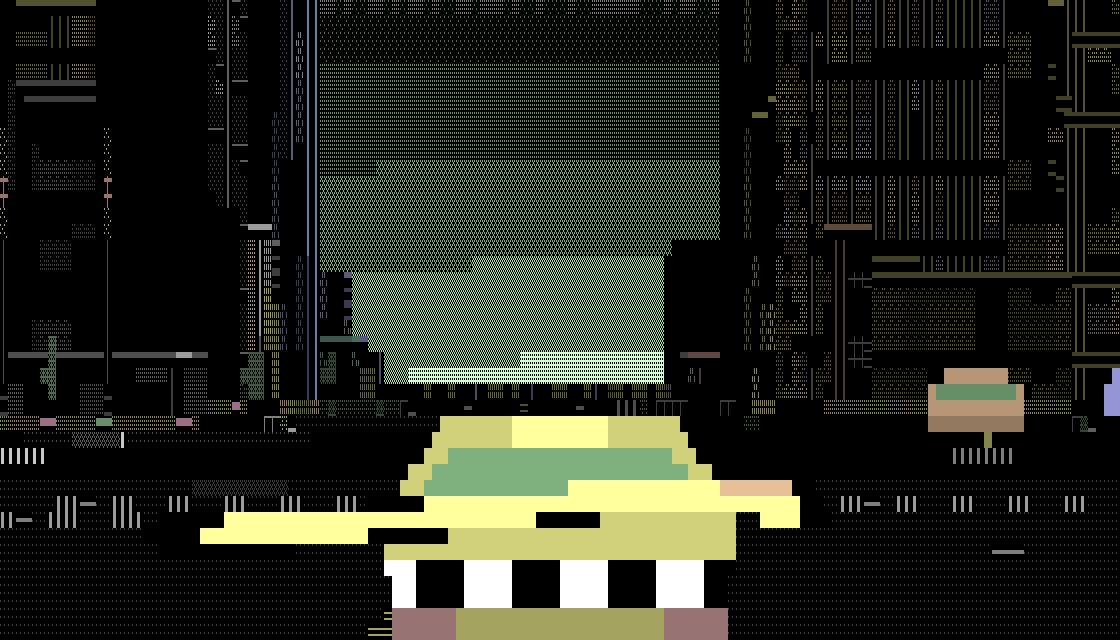
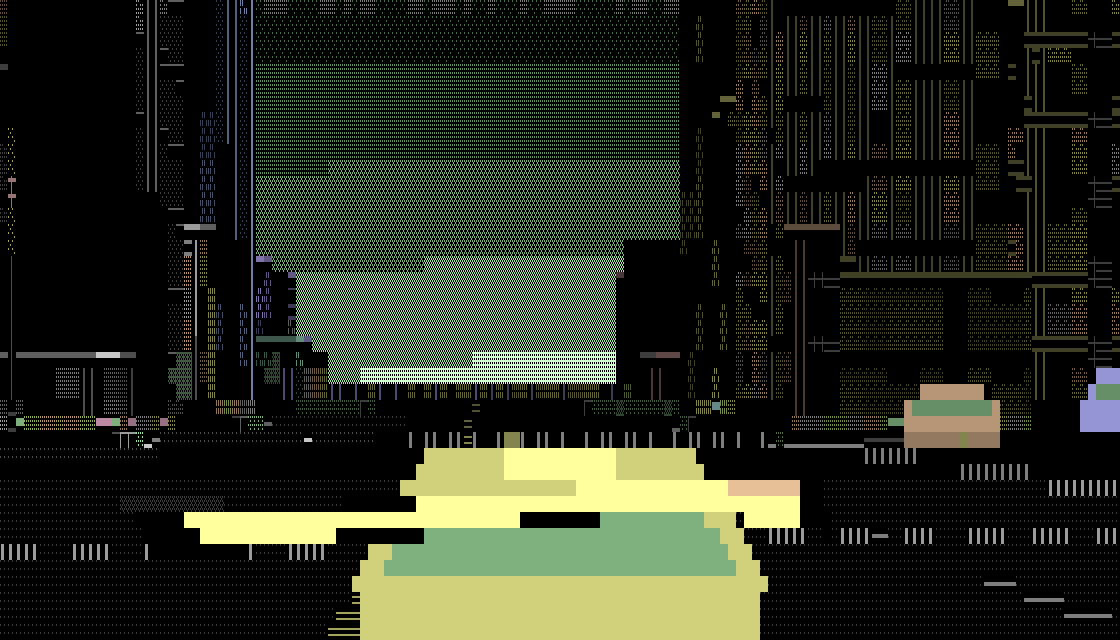
A held turn winds on, and the camera sits closer and higher
THE WHEEL HAS A MEMORY NOW

A key is down or it is not, so the wheel only ever goes to one place, and the
*time* it has been there is the only thing left to tell a flick from a
commitment.  Hold it hard over and the lock keeps winding on for the next
second, up to a quarter again as much; let it come back and it unwinds twice
as fast as it wound.  The first second is the corner you asked for, and past
that the car keeps turning in, which is how you get round something you have
misjudged.

A quarter, and not the half it started at, because of who else holds a wheel.
The autopilot's steering latch pins the lock through every junction, so at
half again it wound itself onto the pavement - 26 per cent of one city's
travelling ticks off the carriageway, against 2.  The physics does not know
who is driving and must not; what changed is the number, not who it applies
to.

The counter runs in ticks of whatever rate the game is stepping at, scaled
from the constants' own rate, for the same reason grip does: a car that winds
on twice as fast at sixty frames a second as at thirty handles differently on
a faster machine, and there is a test that says so.

THE CAMERA

One car-length back rather than one and a quarter, and eleven tenths of a
cell up rather than one.  The two fight - the car's foot lands `eye x scale /
boom` rows below the horizon, so shortening the boom pushes the car down the
screen and raising the eye pushes it down again - and what is left visible is
[…]

diff --git a/crates/ascitty-core/src/drive.rs b/crates/ascitty-core/src/drive.rs
@@ -110,6 +110,29 @@ const GRIP_HANDBRAKE: Fx = fixed::ratio(995, 1000);
 const GRIP_CURVE: u32 = 3;
 /// Peak yaw rate, in angle units per second: about 130 degrees a second.
 const TURN_RATE: i32 = 24_000;
+/// How far over the wheel has to be to count as held.
+const WIND_LOCK: Fx = fixed::ratio(3, 4);
+/// How long it has to be held there before the lock starts winding on, in
+/// ticks at [`HZ`].
+///
+/// A second.  Anything shorter and an ordinary junction - which is a second
+/// of lock at town speed - starts to tighten on its own, and a corner that
+/// tightens without being asked is a corner you cannot place.
+const WIND_AFTER: u32 = HZ as u32;
+/// And how long from there to all of it.
+const WIND_OVER: u32 = HZ as u32;
+/// How much more lock a fully wound wheel is worth.
+///
+/// A quarter again.  It is what turns a held turn into a tightening one:
+/// the first second is the corner you asked for, and past that the car keeps
+/// turning in, which is how you get round something you have misjudged.
+///
+/// It was half again, and half again is too much for anything that holds
+/// lock as a matter of course.  The autopilot does - its steering latch pins
+/// the wheel through every junction - so it wound itself onto the pavement:
+/// 26 per cent of one city's travelling ticks off the carriageway, against
+/// 2.  A quarter is a wind-on you can feel and not one that drives for you.
+const WIND_MAX: Fx = fixed::ratio(1, 4);
 /// Speed at which the car turns its hardest, in units per second - about
 /// 32 km/h.
 ///
@@ -285,6 +308,13 @@ pub struct Car {
     pub hue: u8,
     /// What it is.
     pub kind: CarKind,
+    /// Ticks the wheel has been held hard over, for the lock that winds on.
+    ///
+    /// A car park manoeuvre and a corner are the same input here - the wheel
+    /// only goes to one place - so the *time* it has been there is the only
+    /// thing left to tell them apart, and it is what a driver actually does:
+    /// turn in, and keep turning in if it is not enough.
+    pub wound: u32,
     /// Ticks of boost left: twice the engine and twice the top speed.
     ///
     /// It is on the car rather than in the controls because it outlives a
@@ -297,7 +327,7 @@ pub struct Car {
 impl Car {
     /// A car sitting still at a place, pointing somewhere.
     pub fn new(kind: CarKind, x: Fx, y: Fx, yaw: Ang, hue: u8) -> Car {
-        Car { x, y, vx: 0, vy: 0, yaw, spin: 0, damage: 0, hue, kind, boost: 0 }
+        Car { x, y, vx: 0, vy: 0, yaw, spin: 0, damage: 0, hue, kind, wound: 0, boost: 0 }
     }
 
     /// Speed, in units per second.
@@ -411,7 +441,31 @@ impl Car {
             fixed::div(TURN_REF, sp)
         };
         let dir = if vf < 0 { -ONE } else { ONE };
-        let rate = fixed::mul(fixed::mul(c.steer, auth), dir);
+
+        // Winding the lock on.  Hold the wheel hard over and the turn keeps
+        // tightening for the next second, up to half again as much lock; let
+        // it come back and that unwinds twice as fast as it wound.  It is
+        // the one input in the game with a memory, and it is what makes a
+        // held turn a *decision* rather than a state.
+        // In ticks of whatever rate this is, not of `HZ`: the constants are
+        // quoted at sixty and the counter runs at `hz`, and a car that winds
+        // on twice as fast at sixty frames a second as at thirty is a car
+        // that handles differently on a faster machine.
+        let after = WIND_AFTER * hz as u32 / HZ as u32;
+        let over = (WIND_OVER * hz as u32 / HZ as u32).max(1);
+        if fixed::abs(c.steer) > WIND_LOCK {
+            self.wound = self.wound.saturating_add(1).min(after + over);
+        } else {
+            self.wound = self.wound.saturating_sub(2);
+        }
+        let wound = fixed::div(
+            fixed::from_int(self.wound.saturating_sub(after) as i32),
+            fixed::from_int(over as i32),
+        )
+        .clamp(0, ONE);
+        let wind = ONE + fixed::mul(wound, WIND_MAX);
+
+        let rate = fixed::mul(fixed::mul(fixed::mul(c.steer, auth), dir), wind);
         let turn = ((rate as i64 * TURN_RATE as i64) >> 16) / hz as i64;
         // A low-pass filter on the yaw rate, so the wheel has weight and a
         // knock from a wall spins the car and then washes out.  It has to be
@@ -858,6 +912,45 @@ mod tests {
     ///
     /// Measured: 0.90 against 0.09 at 100 km/h.  It was 1.00 against 0.92
     /// before, which is to say it did nothing you could see.
+    /// Holding a turn tightens it.
+    ///
+    /// The first second is the corner you asked for; past that the wheel
+    /// keeps winding on.  Measured as the yaw in the second second of a held
+    /// turn against the yaw in the first, at a speed the car actually
+    /// corners at.
+    #[test]
+    fn a_held_turn_tightens() {
+        let city = open_ground();
+        let mut car = Car::new(CarKind::Taxi, fixed::from_int(8), fixed::from_int(8), 0, 7);
+        car.vx = fixed::from_int(3);
+        let hold = Controls { throttle: 0, steer: ONE, ..Default::default() };
+        let turn = |car: &mut Car, ticks: i32| {
+            let was = car.yaw;
+            for _ in 0..ticks {
+                // Hold the speed, so this is about the wheel and not about
+                // the throttle.
+                let want = fixed::from_int(3);
+                let vf = fixed::mul(car.vx, trig::cos(car.yaw)) + fixed::mul(car.vy, trig::sin(car.yaw));
+                let c = Controls { throttle: if vf < want { ONE } else { 0 }, ..hold };
+                car.step(&c, &city, HZ);
+            }
+            (car.yaw.wrapping_sub(was) as i16 as i32).abs()
+        };
+        let first = turn(&mut car, HZ);
+        let second = turn(&mut car, HZ);
+        assert!(
+            second > first * 11 / 10,
+            "the wheel did not wind on: {first} units in the first second, {second} in the next"
+        );
+
+        // And it unwinds when you straighten up.
+        let straight = Controls { throttle: 0, steer: 0, ..Default::default() };
+        for _ in 0..HZ {
+            car.step(&straight, &city, HZ);
+        }
+        assert_eq!(car.wound, 0, "the lock stayed wound on after the wheel came back");
+    }
+
     #[test]
     fn the_handbrake_makes_it_slide_more() {
         for v in [fixed::from_int(3), fixed::ratio(9, 2), VMAX] {

diff --git a/crates/ascitty-tty/src/main.rs b/crates/ascitty-tty/src/main.rs
@@ -421,10 +421,11 @@ fn chase(cam: &mut Camera, sim: &Sim, city: &City, rows: i32, head: &mut Head, h
     // doubled, so the camera sat inside the boot and the frame was a
     // yellow wall.
     //
-    // Halved since - one and a quarter car-lengths rather than two and a
-    // half.  A long boom puts the cab in the middle distance and the game in
-    // the middle of a wide shot; a short one puts you behind the car.
-    let want = fixed::mul(sim.taxi.kind.half_len(), fixed::ratio(5, 2)) + fixed::ratio(1, 4);
+    // Shortened twice since - one car-length rather than two and a half.  A
+    // long boom puts the cab in the middle distance and the game in the
+    // middle of a wide shot; a short one puts you behind the car, close
+    // enough that the road goes past rather than towards you.
+    let want = fixed::mul(sim.taxi.kind.half_len(), fixed::from_int(2)) + fixed::ratio(1, 4);
     let mut boom = want;
     while boom > fixed::ratio(1, 4) {
         let x = sim.taxi.x - fixed::mul(dx, boom);
@@ -442,19 +443,21 @@ fn chase(cam: &mut Camera, sim: &Sim, city: &City, rows: i32, head: &mut Head, h
     }
     // Head height for a car, above whatever the ground is doing here.
     //
-    // A quarter higher than it was, over a boom half as long.  Both changes
+    // Higher again, over a boom shorter again.  Both changes
     // point the same way: from further back and lower down you are a camera
     // following a car, and from nearer and higher up you are looking over
     // its roof at the road, which is the shot this game is.
     //
-    // The two do fight over one thing, and the number is a compromise
-    // between them.  The car's foot lands `eye x scale / boom` rows below
-    // the horizon, so halving the boom doubles that and raising the eye
-    // adds to it again: at six fifths of a cell the cab's whole lower half
-    // was off the bottom of a forty-row frame.  At one cell it keeps about
-    // four fifths of the car and gives the rest of the frame to the street,
-    // which is what the height was raised for.
-    cam.z = city.ground(fixed::floor(cam.x), fixed::floor(cam.y)) + ONE;
+    // The two fight over one thing, and both of these numbers are a
+    // compromise between them.  The car's foot lands `eye x scale / boom`
+    // rows below the horizon, so shortening the boom pushes the car down the
+    // screen and raising the eye pushes it down again: at six fifths of a
+    // cell over a boom of two and three quarters, the cab's whole lower half
+    // was off the bottom of a forty-row frame.  What is left visible is the
+    // roof, the glass and the chequer band - the parts that say it is a
+    // taxi - and the rest of the frame is street, which is what the height
+    // is for.
+    cam.z = city.ground(fixed::floor(cam.x), fixed::floor(cam.y)) + fixed::ratio(11, 10);
     // Looking slightly down at the road, plus wherever the driver's head has
     // got to.  Positive pitch is down, so a head thrown back by the throttle
     // subtracts and you see sky.

diff --git a/README.md b/README.md
@@ -1,6 +1,6 @@
 # ASCITTY — a raytraced ASCII city
 
-**v0.5.1 · 19 August 2026**
+**v0.6.0 · 19 August 2026**
 
 A city built entirely out of typeable characters, rendered in real time, on a
 colour terminal and on a **Commodore Plus/4** — and a taxi game inside it.
@@ -17,13 +17,13 @@ the same string.
 
 *Street level in block elements and colour, which is what you actually get.
 `ascitty --shot 520 --size 140x40 --seed 99 --tour --walk --sky 0 --day 0` —
-**v0.5.1**, 19 Aug 2026.*
+**v0.6.0**, 19 Aug 2026.*
 
 ## Watch it drive itself
 
 ![The cab driving itself down a street, traffic ahead of it, the fare marker glowing on the pavement](docs/media/demo.gif)
 
-*Eight seconds of `make demo`, recorded by `make gif` — **v0.5.1**, 19 Aug
+*Eight seconds of `make demo`, recorded by `make gif` — **v0.6.0**, 19 Aug
 2026. Small and short because a GIF is a whole frame every frame; `make
 cast` records the same run as an asciinema file, which stays sharp at any
 size and is a tenth of the bytes.*
@@ -45,7 +45,7 @@ make gif       # ...or to docs/media/demo.gif
 
 ![The taxi from behind, chequer band along its flank, a saloon alongside on the avenue](docs/media/drive.png)
 
-*The chase camera, from `make demo` at `--sky 3` — **v0.5.1**, 19 Aug 2026.
+*The chase camera, from `make demo` at `--sky 3` — **v0.6.0**, 19 Aug 2026.
 The cab's
 heading and the camera's are not the same thing: the boom lags a turn by a
 few frames, so a slide is watched from outside the spin.*
@@ -79,7 +79,7 @@ It starts in the first one.
 
 ![The city from above the tallest roof: towers seen down their faces, rooftops and fire escapes below](docs/media/copter.png)
 
-*The copter, from `--copter --haze 1 --sky 5` — **v0.5.1**, 19 Aug 2026. How
+*The copter, from `--copter --haze 1 --sky 5` — **v0.6.0**, 19 Aug 2026. How
 far
 down it looks is worked out from how high it is, how far the haze lets it
 see and how many rows the frame has, rather than being a fixed tilt — see
@@ -223,7 +223,7 @@ prints them.
 
 ![The cab at a green sunset, the sky pale at the horizon and darkening above it](docs/media/sunset.png)
 
-*`--sky 8 --day 0` — **v0.5.1**, 19 Aug 2026. The green sunset, held still
+*`--sky 8 --day 0` — **v0.6.0**, 19 Aug 2026. The green sunset, held still
 for the picture.*
 
 A phase change does not cross-fade. Two hues cannot be mixed in a palette
@@ -248,6 +248,7 @@ them leaning across the frame is reading the weather rather than the city.
 |---|---|
 | An engine with a curve | hardest from rest, tapering off; the top of the range is 1¾ s away, not ¼ |
 | A corner you can place | it goes where it points at every speed; the drift is the handbrake's, not the car's |
+| A held turn that tightens | keep the wheel over and the lock winds on for the next second, a quarter again — the first second is the corner you asked for |
 | A corner that widens with speed | radius grows with the square of it, so getting round a junction means slowing down or hanging the tail out |
 | Acceleration bobbing | the camera carries the driver's head on a spring: back under power, forward under braking, still at any constant speed |
 | Grip you have to ask to lose | 0.06 to 0.15 of slip through a corner at any speed with your hands off the handbrake, and 0.84 to 0.93 with it |
@@ -325,7 +326,7 @@ all:
 ```
 
 *`ascitty --shot 520 --size 92x20 --seed 99 --tour --walk --mode ascii` —
-**v0.5.1**, 19 Aug 2026. The mode the name is about, and the one that runs
+**v0.6.0**, 19 Aug 2026. The mode the name is about, and the one that runs
 anywhere a terminal runs.*
 
 ## Downloads
@@ -383,7 +384,7 @@ make walk     # watch the camera walk instead
 make run4     # play the Plus/4 build in xplus4
 make demo4    # ...and leave it alone; it drives itself
 
-make test     # 293 tests, about half a second
+make test     # 294 tests, about half a second
 make check    # the gate: tests, both builds, and both actually rendering
 make bench    # frames a second on this machine
 
@@ -534,10 +535,10 @@ place to start.
 
 ```sh
 $ ascitty --version
-ascitty 0.5.1 (seed 0xa5c1771e)
+ascitty 0.6.0 (seed 0xa5c1771e)
 ```
 
-Releases are tagged `v0.5.1` and so on, and every picture in this README
+Releases are tagged `v0.6.0` and so on, and every picture in this README
 says which build drew it. Regenerating them is `make shot` and `make gif`;
 the seed is fixed, so the same tag renders the same frames.
 
@@ -546,7 +547,7 @@ the seed is fixed, so the same tag renders the same frames.
 ![The Plus/4 build running in VICE](docs/media/plus4.png)
 
 *The `.prg` booted in VICE and photographed by `tools/viceshot.sh` — a
-40×25 city on a 1.76 MHz 7501. **v0.5.1**, 19 Aug 2026.*
+40×25 city on a 1.76 MHz 7501. **v0.6.0**, 19 Aug 2026.*
 
 `build/ascitty.prg` and `build/ascitty.d64` are the real thing: a 40×25
 city, in colour, on a 1.76 MHz 7501, with a character set generated on a
@@ -694,7 +695,7 @@ Everything is indexed at **[docs/index.md](docs/index.md)**.
 
 Working: the renderer, all three cameras, the city generator with six
 building archetypes, the procedural font, the weather, the driving physics,
-the fare loop, the terminal front end and the Plus/4 build. 293 tests.
+the fare loop, the terminal front end and the Plus/4 build. 294 tests.
 
 Not yet: sub-cell rooflines, proper roof surfaces, scoring and grades,
 sprites and driving on the Plus/4, and the assembly inner loop that would

diff --git a/docs/driving.md b/docs/driving.md
@@ -95,6 +95,28 @@ The version this replaced turned inside 14 m at 150 km/h and slipped between
 identically at walking pace and flat out, which is another way of saying the
 speed made no difference to the handling at all.
 
+### A held turn winds on
+
+The wheel only goes to one place — a key is down or it is not — so the *time*
+it has been there is the only thing left to tell a flick from a commitment.
+Hold it hard over and the lock keeps winding on for the next second, up to a
+quarter again as much; let it come back and that unwinds twice as fast as it
+wound.
+
+The first second is the corner you asked for. Past that the car keeps turning
+in, which is how you get round something you have misjudged.
+
+A quarter, and not the half it started at, because of who else holds a wheel:
+the autopilot's steering latch pins the lock through every junction, so at
+half again it wound itself onto the pavement — 26 per cent of one city's
+travelling ticks off the carriageway against 2. The physics does not know who
+is driving and must not: what changed is the number, not who it applies to.
+
+The counter runs in ticks of whatever rate the game is stepping at, scaled
+from the constants' own rate, for the same reason grip is — a car that winds
+on twice as fast at sixty frames a second as at thirty is a car that handles
+differently on a faster machine.
+
 ### The wheel stops working as the speed rises
 
 Yaw rate climbs with speed while the steering lock is what limits it, and

diff --git a/docs/camera.md b/docs/camera.md
@@ -60,15 +60,16 @@ about it are deliberate.
 A flick of the wheel swings the view a moment later, so a drift is watched
 from the outside rather than from inside the spin.
 
-**It sits one and a quarter car-lengths back and one cell up.** Near and
+**It sits one car-length back and eleven tenths of a cell up.** Near and
 high, which is one change and not two: from further back and lower down you
 are a camera following a car, and from nearer and higher up you are looking
 over its roof at the road. The two fight over one number — the car's foot
 lands `eye × scale ÷ boom` rows below the horizon, so halving the boom
 doubles that and raising the eye adds to it again, and at the height that
 first looked right the cab's whole lower half was off the bottom of a
-forty-row frame. One cell keeps about four fifths of the car and gives the
-rest of the frame to the street, which is what the height was raised for.
+forty-row frame. What is left visible is the roof, the glass and the chequer band — the parts
+that say it is a taxi — and the rest of the frame is street, which is what
+the height is for.
 
 **The boom shortens until it is out of a building.** A chase camera that
 clips through a wall shows you the inside of the wall at exactly the moment

diff --git a/docs/lab-report.md b/docs/lab-report.md
@@ -588,7 +588,7 @@ exists for any structure to exceed.
 
 ### D. Verification
 
-293 assertions execute in approximately 0.2 s. The acceptance gate
+294 assertions execute in approximately 0.2 s. The acceptance gate
 additionally rebuilds both targets, regenerates the baked headers, renders a
 host frame, and boots the target program in an emulator to confirm
 non-trivial output. A target program that compiles is not evidence that it
